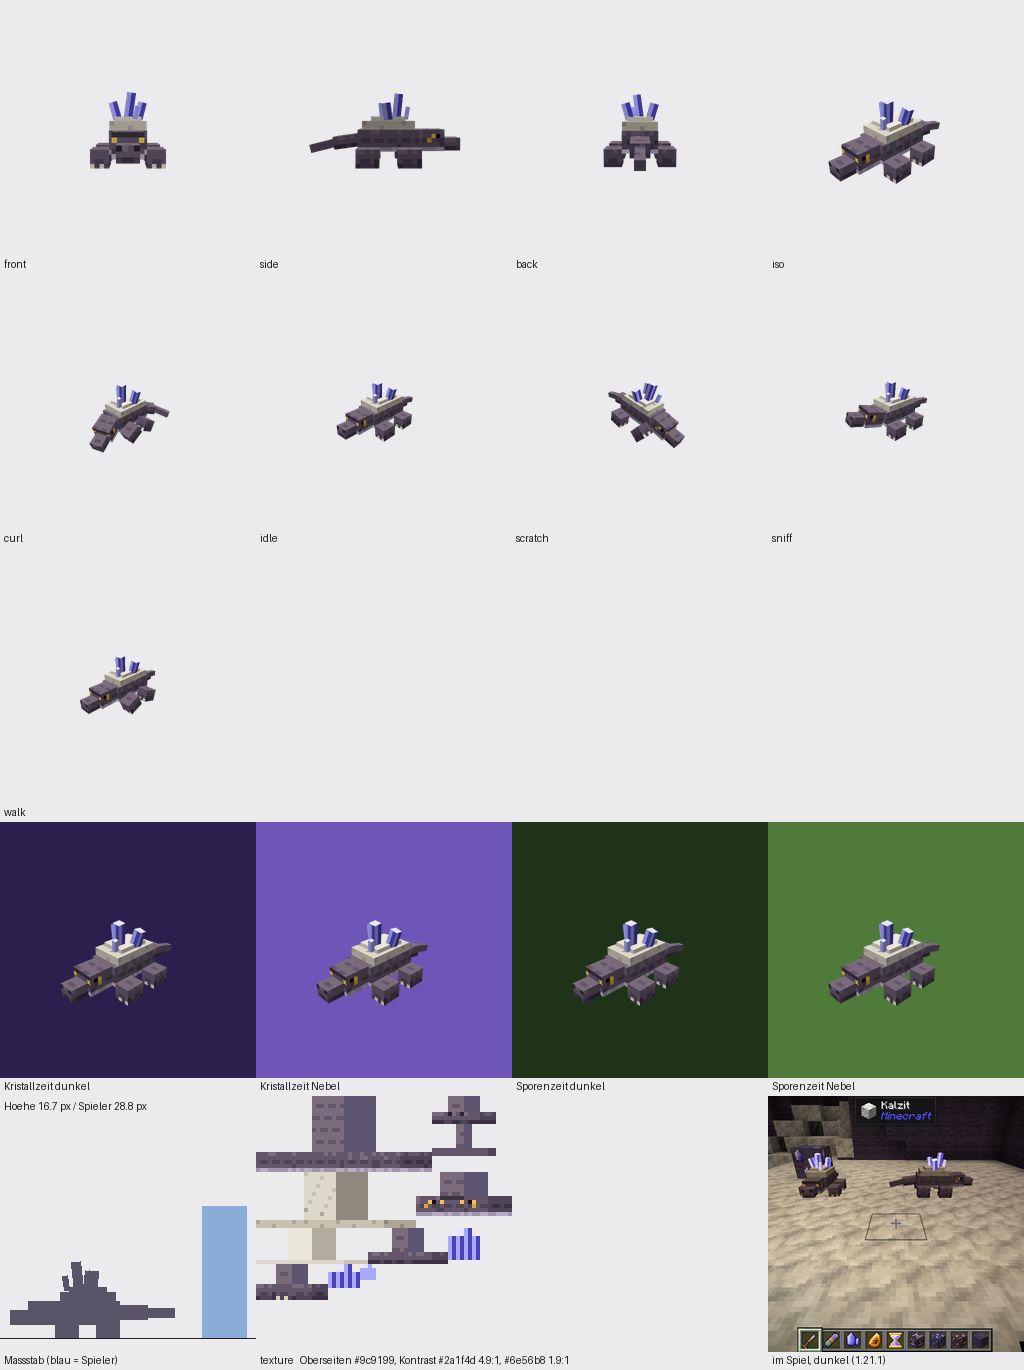
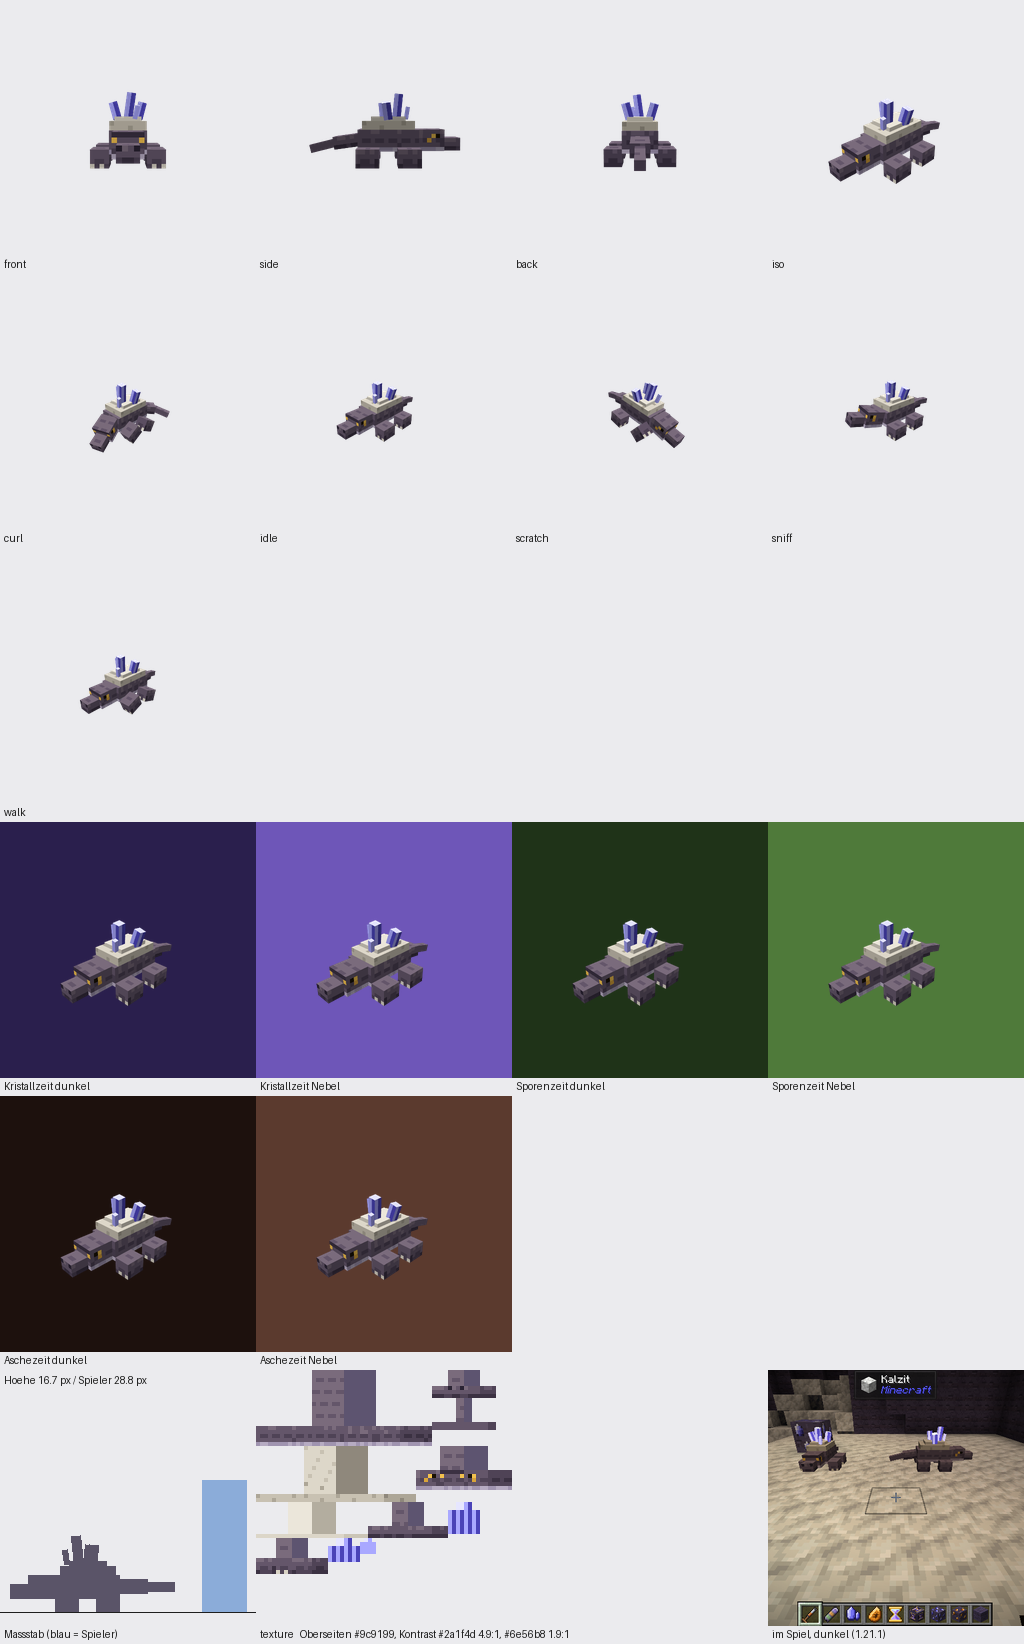
Prüfblatt: Aschezeit-Hintergründe (Spiralit reist durch alle drei Epochen)
Claude-Session: https://claude.ai/code/session_01Ctsg8SxXVHQPATnSMNydJr

diff --git a/tools/mob_sheet.py b/tools/mob_sheet.py
@@ -19,11 +19,12 @@ from make_mob_textures import faces  # noqa: E402
 
 ROOT = os.path.join(os.path.dirname(__file__), '..', 'mobs')
 BACKGROUNDS = [('Kristallzeit dunkel', '#2a1f4d'), ('Kristallzeit Nebel', '#6e56b8'),
-               ('Sporenzeit dunkel', '#1f3318'), ('Sporenzeit Nebel', '#4f7a3a')]
+               ('Sporenzeit dunkel', '#1f3318'), ('Sporenzeit Nebel', '#4f7a3a'),
+               ('Aschezeit dunkel', '#1d110d'), ('Aschezeit Nebel', '#5b3a2e')]
 # Gegen welche Hintergründe die Oberseiten bestehen müssen (dunkel und Nebel der eigenen Epoche).
 EPOCH_BG = {'geode_crawler': ['#2a1f4d', '#6e56b8'], 'spore_bellows': ['#1f3318', '#4f7a3a'],
             'petrified_witness': ['#2a1f4d', '#6e56b8', '#1f3318', '#4f7a3a'],
-            'spiralit': ['#2a1f4d', '#6e56b8', '#1f3318', '#4f7a3a']}
+            'spiralit': ['#2a1f4d', '#6e56b8', '#1f3318', '#4f7a3a', '#1d110d', '#5b3a2e']}
 PLAYER_PX = 28.8
 CELL = 256
 
@@ -130,7 +131,8 @@ def sheet(mob):
     cols = 4
     anim_rows = (len(anims) + cols - 1) // cols
     clock = os.path.isfile(os.path.join(ROOT, mob, 'texture_glow_spiral_1.png'))
-    rows = 1 + anim_rows + 1 + 1 + (1 if clock else 0)
+    bg_rows = (len(BACKGROUNDS) + cols - 1) // cols
+    rows = 1 + anim_rows + bg_rows + 1 + (1 if clock else 0)
     lh = 18
     out = Image.new('RGBA', (cols * CELL, rows * (CELL + lh)), (235, 235, 238, 255))
     d = ImageDraw.Draw(out)
@@ -151,7 +153,7 @@ def sheet(mob):
     iso = Image.open(os.path.join(shots, 'iso.png'))
     for k, (label, bg) in enumerate(BACKGROUNDS):
         place(iso, row * cols + k, label, bg)
-    row += 1
+    row += bg_rows
     place(scale_panel(model), row * cols, 'Massstab (blau = Spieler)')
     top = top_color(model, tex)
     bgs = EPOCH_BG.get(mob, ['#2a1f4d'])
